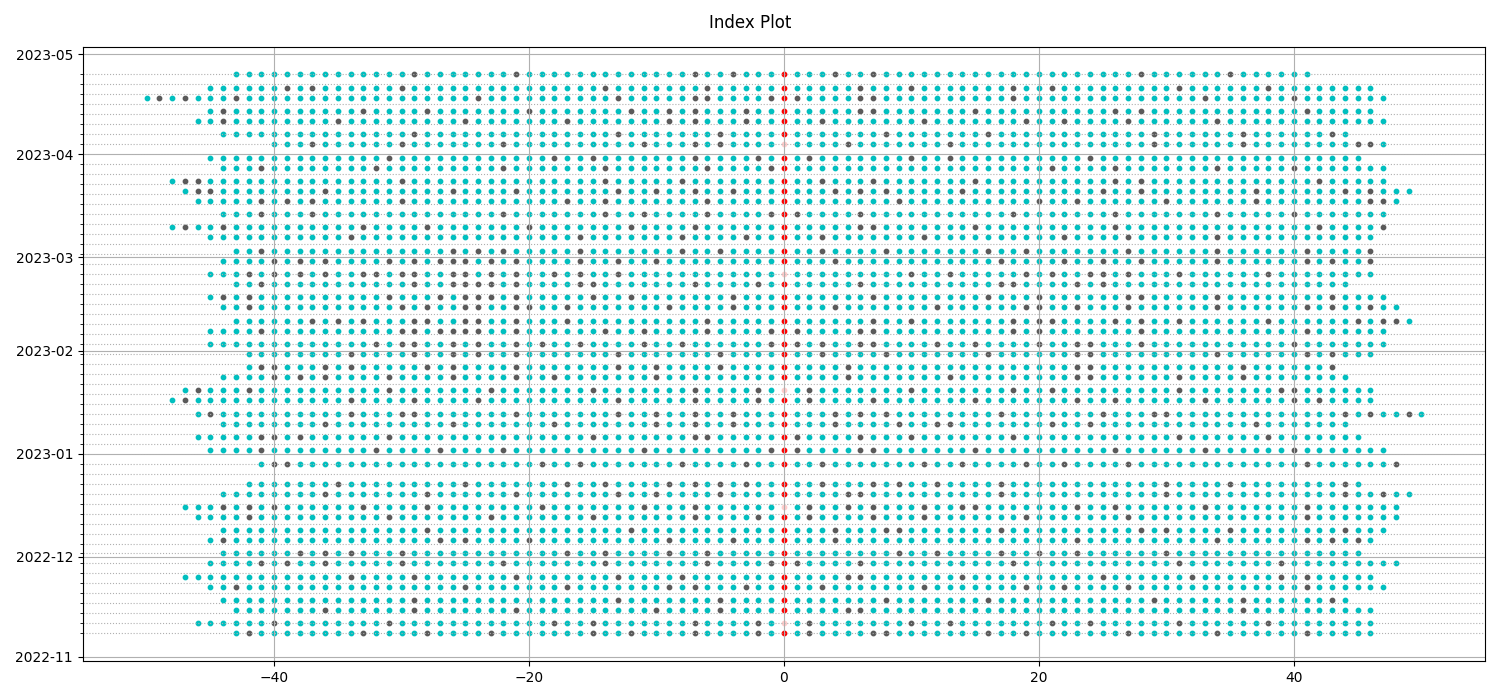
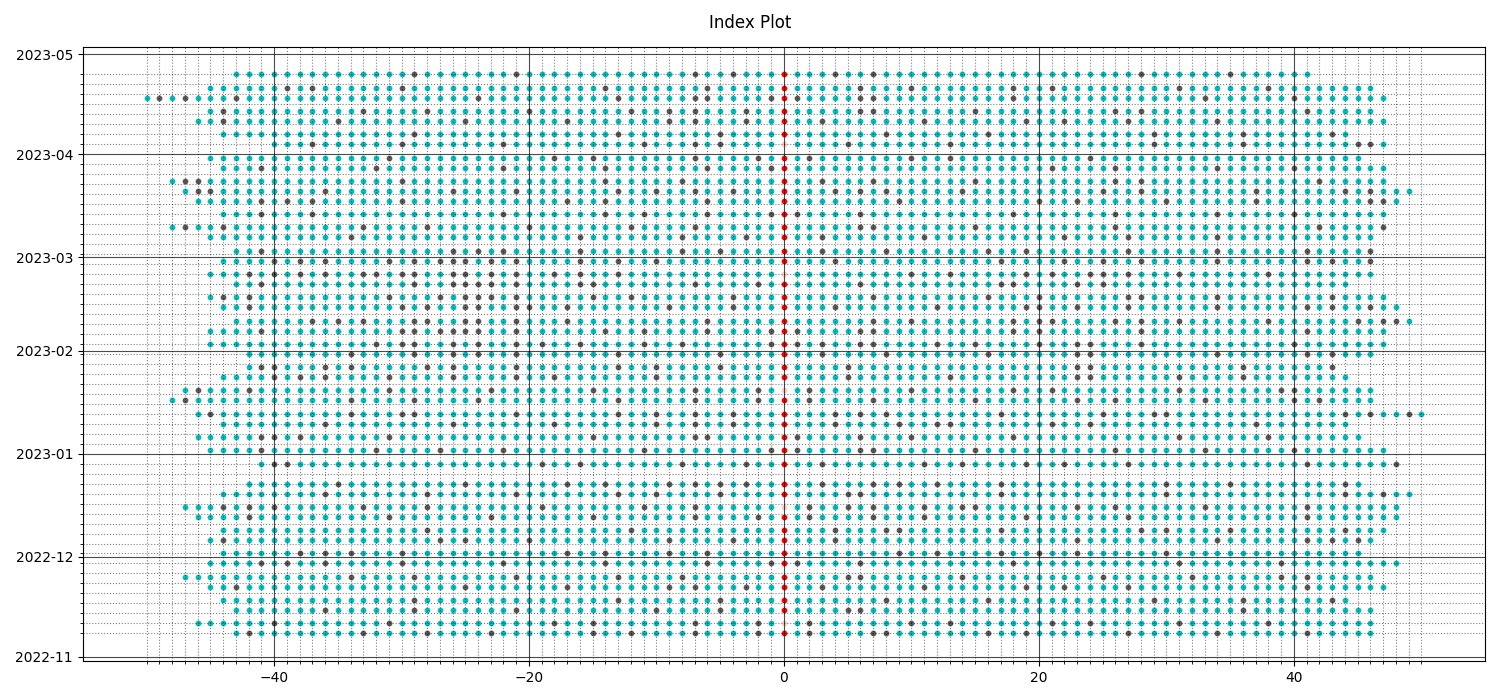
fixed grid

diff --git a/TemplateMatching/plot_result.py b/TemplateMatching/plot_result.py
@@ -161,16 +161,18 @@ def plotResult():
         date_ticks.append(curr_date)
         curr_date += timedelta(days=3)
 
-    teeth_arclength_ticks = np.linspace(0, 5000, num=101)
+    teeth_index_ticks = np.linspace(-50, 50, num=101)
+    teeth_arclength_ticks = np.linspace(-2500, 2500, num=101)
 
     arcAx.set_xticks(teeth_arclength_ticks, minor=True)
+    binAx.set_xticks(teeth_index_ticks, minor=True)
     arcAx.set_yticks(date_ticks, minor=True)
     binAx.set_yticks(date_ticks, minor=True)
 
-    arcAx.grid(which='minor', linestyle=":")
-    binAx.grid(which='minor', linestyle=":")
-    arcAx.grid(which='major')
-    binAx.grid(which='major')
+    arcAx.grid(which='minor', color="k", linestyle=":", alpha=0.5)
+    binAx.grid(which='minor', color="k", linestyle=":", alpha=0.5)
+    arcAx.grid(which='major', color="k", alpha=0.7)
+    binAx.grid(which='major', color="k", alpha=0.7)
     axFig.tight_layout()
     binFig.tight_layout()
 
